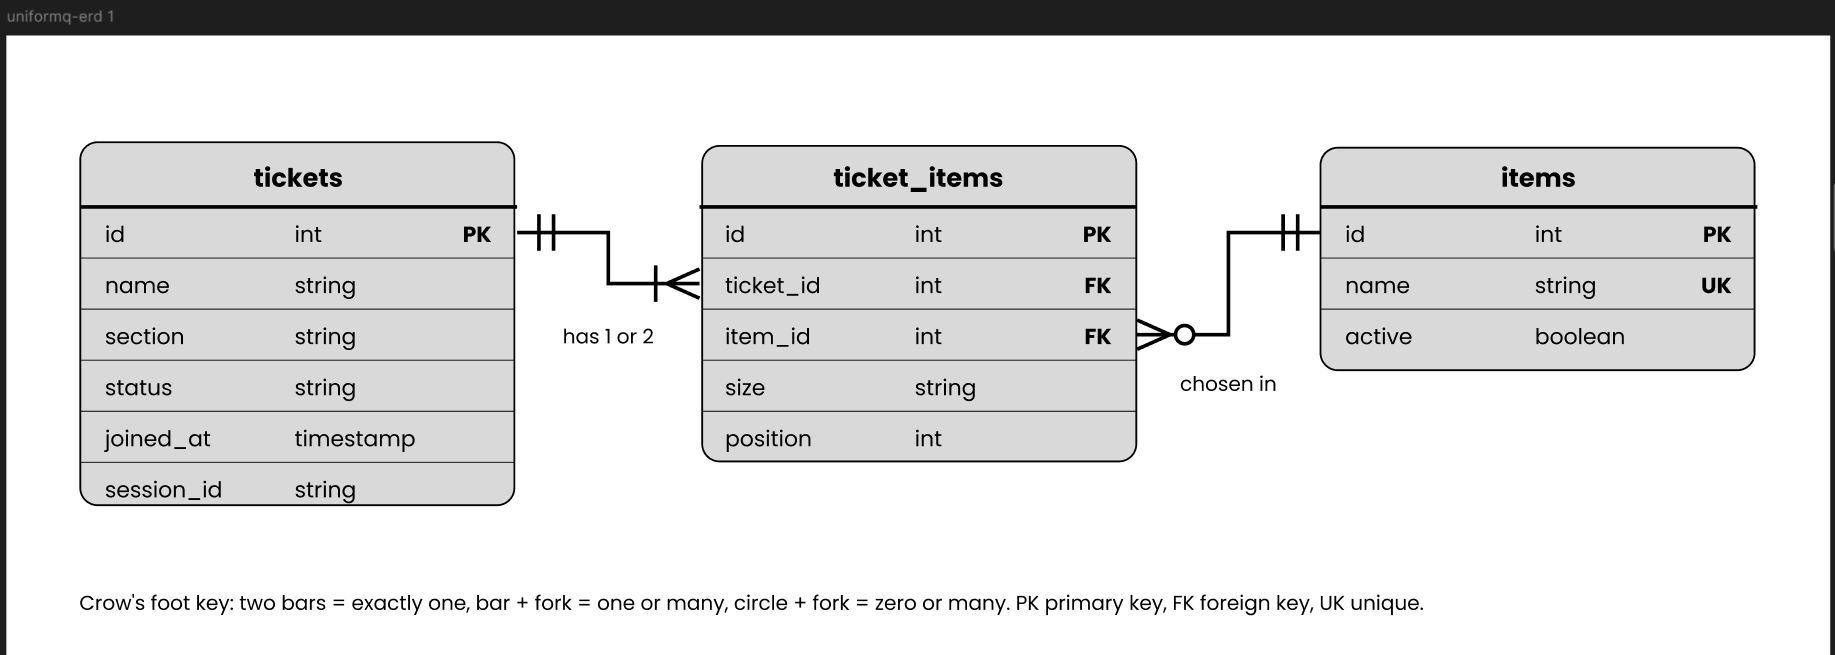
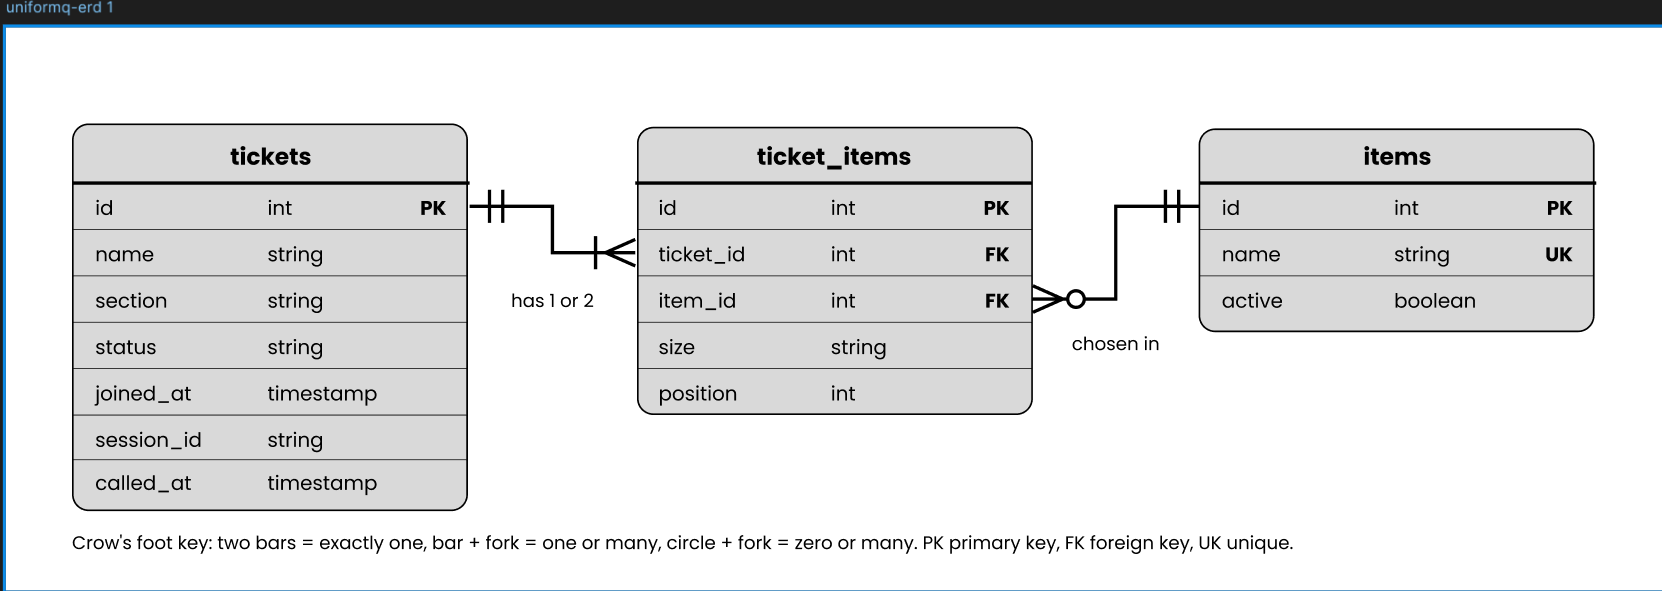
Update schema and ERD with tickets.called_at

diff --git a/migrations/versions/1b843ecebafd_add_tickets_called_at.py b/migrations/versions/1b843ecebafd_add_tickets_called_at.py
@@ -1,0 +1,32 @@
+"""add tickets.called_at
+
+Revision ID: 1b843ecebafd
+Revises: 3848e9eaf926
+Create Date: 2026-11-11 00:03:39.937674
+
+"""
+from alembic import op
+import sqlalchemy as sa
+
+
+# revision identifiers, used by Alembic.
+revision = '1b843ecebafd'
+down_revision = '3848e9eaf926'
+branch_labels = None
+depends_on = None
+
+
+def upgrade():
+    # ### commands auto generated by Alembic - please adjust! ###
+    with op.batch_alter_table('tickets', schema=None) as batch_op:
+        batch_op.add_column(sa.Column('called_at', sa.DateTime(timezone=True), nullable=True))
+
+    # ### end Alembic commands ###
+
+
+def downgrade():
+    # ### commands auto generated by Alembic - please adjust! ###
+    with op.batch_alter_table('tickets', schema=None) as batch_op:
+        batch_op.drop_column('called_at')
+
+    # ### end Alembic commands ###

diff --git a/models.py b/models.py
@@ -27,6 +27,7 @@ class Ticket(db.Model):
     status: Mapped[str] = mapped_column(String(20), default="waiting", server_default="waiting")
     joined_at: Mapped[datetime] = mapped_column(DateTime(timezone=True), server_default=func.now())
     session_id: Mapped[str] = mapped_column(String(64))
+    called_at: Mapped[datetime | None] = mapped_column(DateTime(timezone=True))
 
     items: Mapped[list["TicketItem"]] = relationship(
         back_populates="ticket", cascade="all, delete-orphan",

diff --git a/docs/week4/schema.md b/docs/week4/schema.md
@@ -18,7 +18,7 @@ The queue is not a table: it is every ticket with status `waiting`. The number o
 | Table | Columns |
 | --- | --- |
 | `items` | `id`, `name`, `active` |
-| `tickets` | `id`, `name`, `section`, `status`, `joined_at`, `session_id` |
+| `tickets` | `id`, `name`, `section`, `status`, `joined_at`, `session_id`, `called_at` |
 | `ticket_items` | `id`, `ticket_id`, `item_id`, `size`, `position` |
 
 ## 2c. Column types and constraints
@@ -34,6 +34,7 @@ The queue is not a table: it is every ticket with status `waiting`. The number o
 | `tickets` | `status` | `varchar(20)` | NOT NULL DEFAULT `'waiting'`, CHECK (status IN (`'waiting'`, `'called'`, `'served'`, `'no-show'`, `'left'`)) | Allows only known queue states. |
 | `tickets` | `joined_at` | `timestamptz` | NOT NULL DEFAULT `now()` | Records when the student joined, for the time shown to staff and for reports. |
 | `tickets` | `session_id` | `varchar(64)` | NOT NULL | A random token kept in the student's browser session, used to stop one browser holding two active tickets. |
+| `tickets` | `called_at` | `timestamptz` | NULL | Records when staff called the student, so the wait before being called can be measured. |
 | `ticket_items` | `id` | `integer GENERATED ALWAYS AS IDENTITY` | PRIMARY KEY | Identifies each item line on a ticket. |
 | `ticket_items` | `ticket_id` | `integer` | NOT NULL, FOREIGN KEY REFERENCES `tickets(id)` ON DELETE CASCADE | Connects each item line to its ticket; a mistaken ticket can be deleted together with its items. |
 | `ticket_items` | `item_id` | `integer` | NOT NULL, FOREIGN KEY REFERENCES `items(id)` ON DELETE RESTRICT | Prevents an item line from pointing to a missing item, and keeps old tickets readable. |
@@ -80,6 +81,7 @@ WHERE status = 'waiting';
 - **Ticket items** are inserted in the same transaction as the ticket, starting at position 1, and a join with no items is rejected.
 - **Status changes** follow fixed transitions: `waiting` → `called`; `called` → `served` or `no-show`; `waiting` or `called` → `left`. Each update names the expected current status in its WHERE clause, so an invalid change updates zero rows.
 - **Switched-off items** are hidden from the join form, and a join that includes one is rejected like an item that does not exist. Staff pages still list every item.
+- **Called_at** called_at is set when staff press Call next, using now() in the database.
 
 ## Duplicate tickets
 
